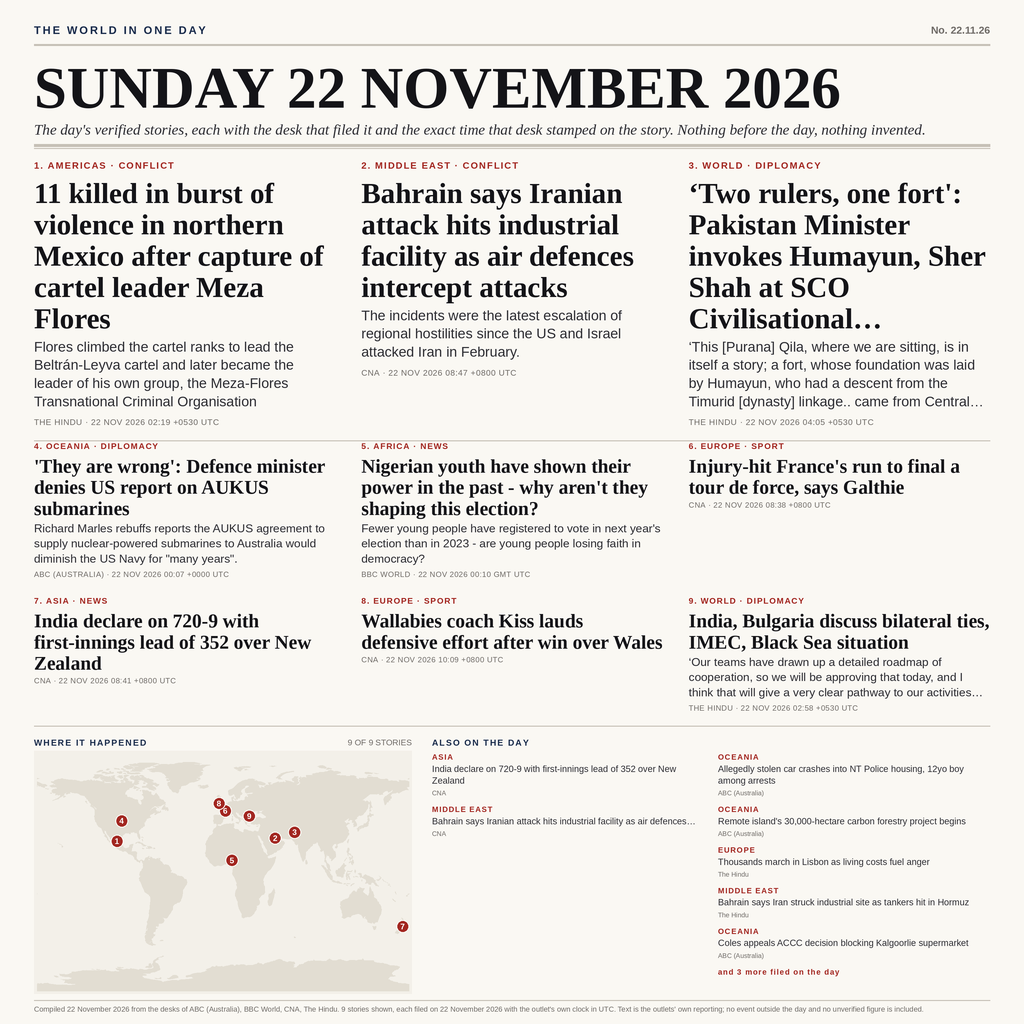
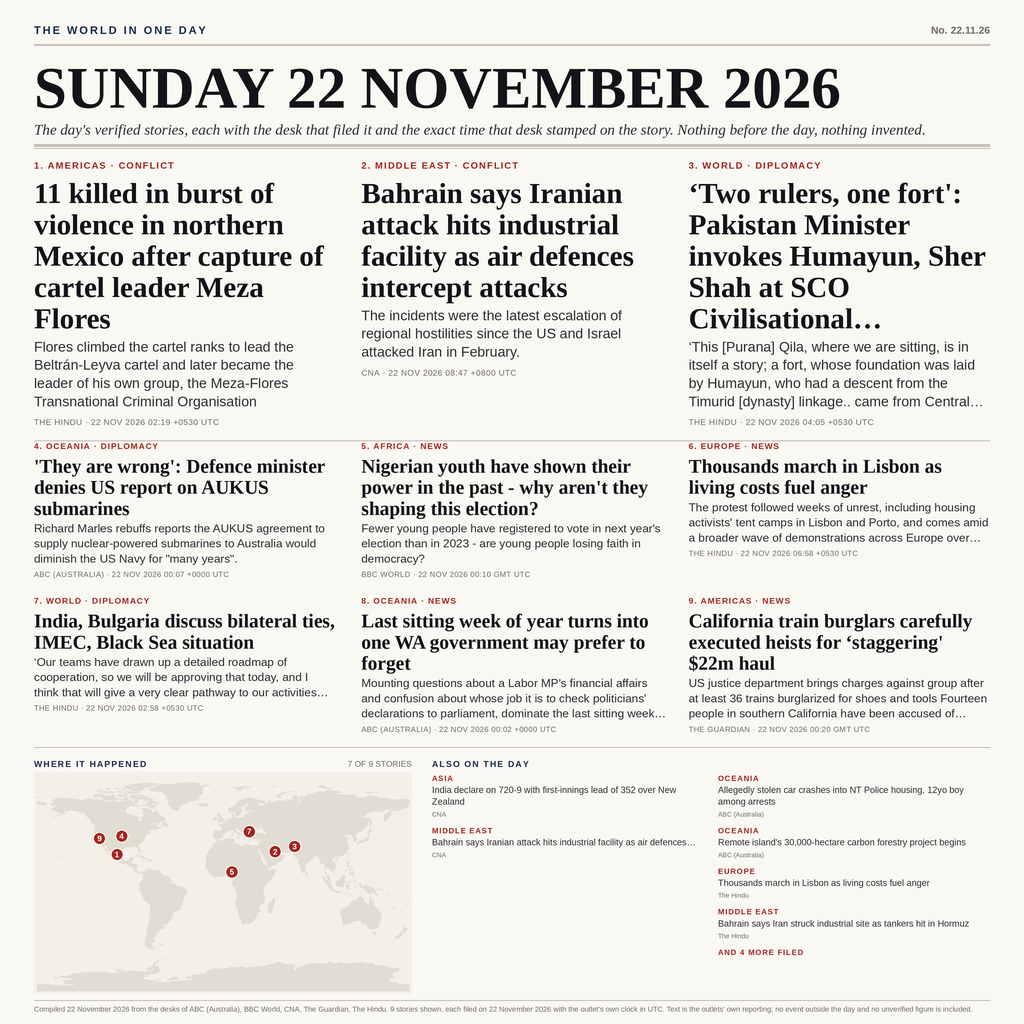
22 November 2026: 3 leads + 6 cards + 10 briefs

diff --git a/render.py b/render.py
@@ -307,14 +307,19 @@ def main():
     p.hline(y - 4, w=1)
 
     # --- bottom band: the map, grown to meet the footer so the page is not
-    # left with a dead quarter, and the digest or tally beside it.
+    # left with a dead quarter, and the digest or tally beside it. The band
+    # gives the digest the height its own copy needs, and the map then takes
+    # whatever height is left, so a long digest shortens the map instead of
+    # running into the footer.
     y += 8
     has_digest = bool(data.get("briefs"))
     mw = 378.0 if has_digest else 560.0
     floor = H - 30                     # the footer rule sits at H-24
-    mh = floor - (y + 13)
-    if mh < 120:
-        raise SystemExit(f"layout: only {mh:.0f}px left for the map")
+    band_top = y + 13
+    band_h = floor - band_top
+    if band_h < 120:
+        raise SystemExit(f"layout: only {band_h:.1f}px left for the bottom band")
+    mh = band_h
     pins = {}
     for n, item in enumerate(leads + cards, 1):
         at = pin_for(item)
@@ -360,18 +365,24 @@ def main():
         cols.append(cur)
         # Fit honestly: if the briefs cannot all be set in the band, set the ones
         # that fit and say on the page how many more were filed. A silent clip
-        # would be a lie about the day's extent.
+        # would be a lie about the day's extent. The "and N more" line is part of
+        # the measurement, not an afterthought: adding it after fitting is what
+        # pushed a column past the footer once.
         shown_max = len(blocks)
-        while shown_max > 1:
+        omitted = 0
+        while shown_max >= 0:
             trial = _balance(blocks[:shown_max], ncol, half)
-            h = max(_height(c) for c in trial)
-            if h <= mh:
+            if omitted:
+                trial[-1] = trial[-1] + [(f"AND {omitted} MORE FILED", [], "", 12.0)]
+            if max(_height(c) for c in trial) <= mh:
                 break
+            if shown_max == 0:
+                raise SystemExit("layout: not even one brief fits the band")
             shown_max -= 1
-        omitted = len(blocks) - shown_max
+            omitted = len(blocks) - shown_max
         cols = _balance(blocks[:shown_max], ncol, half)
         if omitted:
-            cols[-1].append((f"and {omitted} more filed{'':s} on the day", [], "", 12.0))
+            cols[-1] = cols[-1] + [(f"AND {omitted} MORE FILED", [], "", 12.0)]
         last_bottom = {}
         for c, col in enumerate(cols[:ncol]):
             x = bx + c * (colw + gap)
